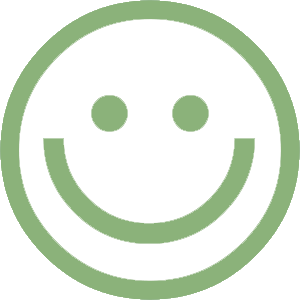
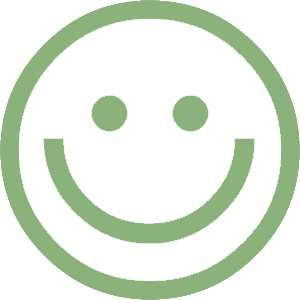
footer

diff --git a/footer.html b/footer.html
@@ -4,26 +4,26 @@
 
 	<div class="content_footer">
 		<a href="https://www.facebook.com/Per-Bo-603393759720479/" class="link1">
-            <img src="img/facebook_groen.svg" alt="Facebook logo">
+            <img src="img/facebook_groen.png" alt="Facebook logo">
         </a>
 		<a href="https://www.instagram.com/per_bo/" class="link2">
-            <img src="img/insta_ring_groen.svg" alt="Instagram logo">
+            <img src="img/insta_ring_groen.png" alt="Instagram logo">
         </a>
 		<a href="http://www.findsmiley.dk/551758" class="link3">
-			<h5>Butik</h5>
+			<h4>Butik</h4>
 			<img src="img/foedevarestyrelsen_groen_trans1.png" alt="Smileyrapport butik">
 		</a>
 		<a href="http://www.findsmiley.dk/700294" class="link4">
-			<h5>Engros</h5>
+			<h4>Engros</h4>
 			<img src="img/foedevarestyrelsen_groen_trans1.png" alt="Smileyrapport engros">
 		</a>
 		<a href="" class="link5">
-			<h5>Tilmeld nyhedsbrev</h5>
-			<img src="img/konvolut_ring_groen.svg" alt="Tilmeld nyhedsbrev">
+			<h4>Tilmeld nyhedsbrev</h4>
+			<img src="img/konvolut_ring_groen.png" alt="Tilmeld nyhedsbrev">
 		</a>
 		<a href="" class="link6">
-			<h5>Cookie- og privatlivspolitik</h5>
-			<img src="img/cookie_ring_groen.svg" alt="Cookie- og privatlivspolitik">
+			<h4>Cookie- og privatlivspolitik</h4>
+			<img src="img/cookie_ring_groen.png" alt="Cookie- og privatlivspolitik">
 		</a>
 		<p>
 

diff --git a/stylesheet.css b/stylesheet.css
@@ -29,6 +29,10 @@ h3 {
 	font-size: 1.1rem;
 }
 
+h4 {
+	font-family: 'Acumin', sans-serif;
+	font-size: 0.9rem;
+}
 
 a {
 	text-decoration: none;
@@ -156,7 +160,7 @@ img {
 	background: #282828;
 	width: 100vw;
 	padding-left: 2vw;
-	padding-bottom: 1vh;
+	padding-top: 1vh;
 }
 
 .burger img {
@@ -1029,7 +1033,7 @@ closeBtn:focus {
 /*****Footer*****/
 
 .content_footer img {
-	width: 20%;
+	width: 20vw;
 }
 
 .footer {
@@ -1057,7 +1061,7 @@ closeBtn:focus {
 	height: 400px;
 	justify-self: center;
 	align-self: center;
-	max-width: 50vw;
+	max-width: 100vw;
 	max-height: 50%;
 }
 
@@ -1065,11 +1069,12 @@ closeBtn:focus {
 	align-self: center;
 	margin-bottom: 6vh;
 	margin-top: 3vh;
-	/*	grid-row: 2/3;*/
 	grid-template-columns: 1fr 1fr;
-	grid-template-rows: repeat(3, 1fr);
+	grid-column-gap: 9vw;
+	grid-row-gap: 3vh;
 	display: grid;
 }
+
 
 .link1,
 .link3,
@@ -1102,8 +1107,26 @@ closeBtn:focus {
 }
 
 @media screen and (min-width: 768px) {
-	.content_footer {
-		max-width: 400px;
+	.content_footer img {
+		width: 7vw;
+	}
+	.map {
+		width: 415px;
+		height: 415px;
+		max-width: 100vw;
+		max-height: 75%;
+	}
+}
+
+@media screen and (min-width: 1024px) {
+	.content_footer img {
+		width: 7vw;
+	}
+	.map {
+		width: 600px;
+		height: 500px;
+		max-width: 100vw;
+		max-height: 75%;
 	}
 }
 
